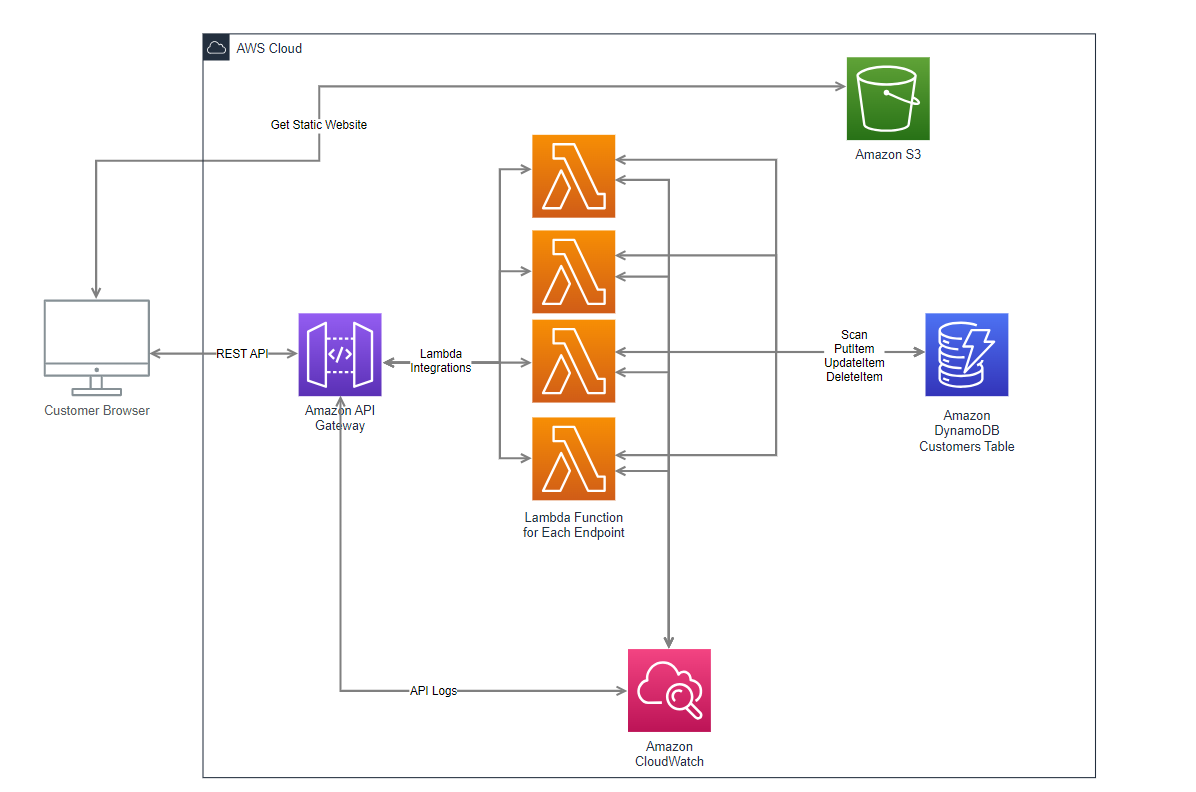
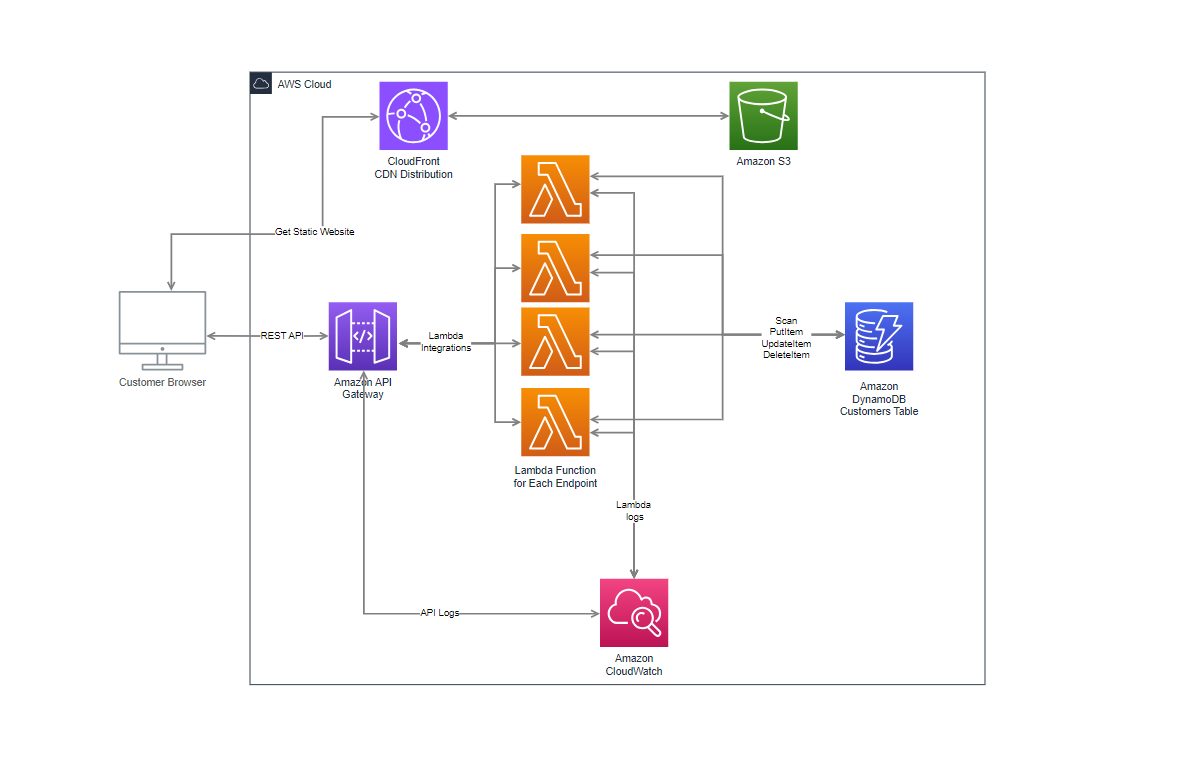
feat: adding cloudFront CDN

diff --git a/README.md b/README.md
@@ -13,6 +13,7 @@ All resources were created using **AWS-managed infrastructure**. No custom VPC, 
 - **AWS Lambda** — Node.js functions implementing Create, Read, Update, and Delete operations.
 - **Amazon DynamoDB** — NoSQL database for storing customer information.
 - **Amazon S3** — static website hosting for the frontend.
+- **Amazon CloudFront** - CDN distribution serving the static files stored in S3.
 - **AWS IAM** — managing permissions with least-privilege access.
 - **Amazon CloudWatch** — monitoring and logging.
 
@@ -34,7 +35,6 @@ A DynamoDB table named **`Customers`** was created with:
 We implemented a **REST API** in API Gateway with the following characteristics:
 
 - Integrated with AWS Lambda functions for backend logic for each of the endpoints.
-- CORS enabled for integration with the frontend, with **Cross-Origin Resource Sharing (CORS)** settings configured to allow the S3 bucket domain.
 - Endpoints:
   - **POST `/customers`** — Create a new customer.
   - **GET `/customers`** — Retrieve all customers.
@@ -62,7 +62,13 @@ The frontend is a static website hosted on **Amazon S3**, consisting of:
 
 The S3 bucket was configured with:
 - **Static website hosting** enabled
-- **Public Policy** allowing GetObject from *.
+- **Policy** allowing GetObject from the cloudFront distribution.
+
+---
+
+## Amazon CloudFront
+Amazon CloudFront was added as a Content Delivery Network (CDN) in front of the Amazon S3 bucket that hosts the static website.  
+The distribution is responsible for caching and accelerating static assets (HTML, CSS, JavaScript, images).
 
 ---
 
